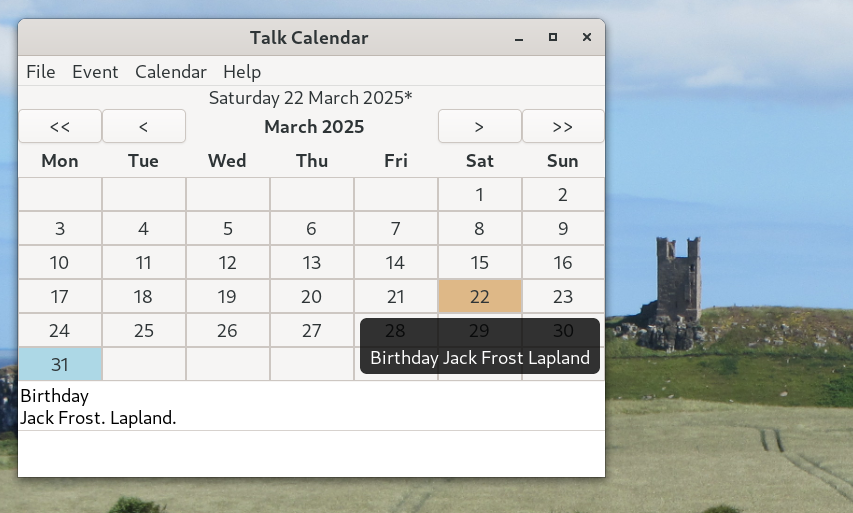
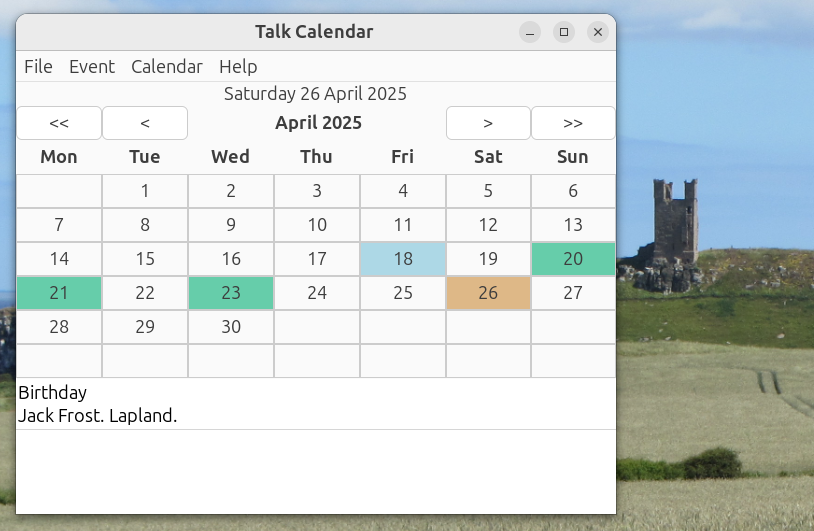
Talk Calendar GTK4 version 0.3.1
[build]: C and GTK 4.14 (Ubuntu 24.04)
[feat]: word concatenation speech synthesizer for reading out dates, time and event titles
[fix]: removed eSpeak speech dispatcher
[fix]: removed Flite API code as not supported on other distros
[feat]: binary for 64-bit Ubuntu and Debian distributions
[docs]: updated readme documentation

diff --git a/README.md b/README.md
@@ -16,13 +16,12 @@ Talk Calendar developed using C and [GTK4](https://docs.gtk.org/gtk4/) for GTK d
 * Sqlite3 database used to store events
 * reads out dates, times and event title text
 * talking clock
-* binary for GTK 4.8.4 (Debian Bookworm)
 
 ### Local Install Using Pre-built Binary
 
-A 64-bit pre-built binary of Talk Calendar is available and can be downloaded from the binary directory. This has been built using GTK 4.8 and compiled using Debian Bookworm.
+A 64-bit pre-built binary of Talk Calendar is available and can be downloaded from the binary directory. This has been built using GTK 4.14 and compiled using Ubuntu 24.04.
 
-Extract the downloaded file which contains the Talk Calendar executable. Talk Calendar must have executable permissions to execute.  Change Talk Calendar file permissions so that it can run as an executable as shown below.
+Extract the downloaded file which contains the Talk Calendar executable. Talk Calendar must have executable permissions to execute.  If necessary change Talk Calendar file permissions so that it can run as an executable as shown below.
 
 ```
 sudo chmod +x talkcalendar
@@ -150,13 +149,15 @@ The only recurring event type that is currently supported by Talk Calendar is ye
 
 Talk Calendar has a built-in word concatenation speech synthesizer. It is used to play-back pre-recorded English words for reading out dates, times and some common generic words used to summarise a personal calendar event. Press F2 to show the current list of words which can be used for an event title. You can use two or more words for the event summary such as "Birthday party", "Dads birthday", "Television reminder", "Travel and visit" or just "Calendar event". You can be creative with the current list of dictionary words. If an event summary word is not recognised then it is skipped over. More words for personal calendar events and notable dates will be added in future updates. Currently a "chipmunk" voice generated using an [Audacity](https://www.audacityteam.org/) macro is used.
 
-The advantage of using my own built-in speech synthesizer is that Talk Calendar can be compiled without any external speech synthesizer  dependencies.
+The advantage of using my own built-in speech synthesizer is that Talk Calendar can be compiled without any external speech synthesizer dependencies. 
 
-With previous versions of Talk Calendar I experimented with using [Flite](http://www.festvox.org/flite/). This is a small run-time speech synthesis engine available in many (not all) Linux distributions which uses diphone concatenation for speech output. Speech tended to lack [clarity](https://en.wikipedia.org/wiki/Speech_synthesis) compared to my word concatenation approach which stores and plays back entire words and so can provide clearer articulation in some use cases. The disadvantage of my approach is the limited number of words available for the event title description
+With previous versions of Talk Calendar I experimented with using [Flite](http://www.festvox.org/flite/). This is a small run-time speech synthesis engine which uses diphone concatenation for speech output. Speech tended to lack [clarity](https://en.wikipedia.org/wiki/Speech_synthesis) compared to [eSpeak](https://espeak.sourceforge.net/) which uses the formant speech synthesis method and produces good quality speech with clear articulation (although the standard voices are robotic). Also [packages.org](https://pkgs.org/) shows that Flite is not available in a number of Linux distributions. I discovered this when trying to compile Talk Calendar on some other Linux distributions and so reverted to using my own built-in speech synthesizer. 
 
-The [eSpeak](https://espeak.sourceforge.net/) speech dispatcher approach which sent text-to-speech output to the espeak speech synthesizer is not longer used. This approach required that eSpeak is installed separately on the user system. eSpeak uses the formant speech synthesis method and produces good quality speech with clear articulation but the standard voices are robotic. I am confused about the eSpeak license situation. eSpeak is said to have a GPL v3 [license](https://espeak.sourceforge.net/license.html). However, it appears that some of its components have other licenses. For example, the IEEE80.c file [license](https://github.com/espeak-ng/espeak-ng/blob/c1d9341f86eee4b7a0da50712b627d8a76e92fea/src/libespeak-ng/ieee80.c) says "Copyright (C) 1989-1991 Apple Computer, Inc." which is very strange given that espeak has a GPL v3 license. This is discussed further in the forum post [here](https://opensource.stackexchange.com/questions/11545/possibilities-to-use-a-gpl-v3-licensed-library-in-a-closed-source-game). 
+The [eSpeak](https://espeak.sourceforge.net/) speech dispatcher approach which sent text-to-speech output to the espeak speech synthesizer is not longer used. This approach required that eSpeak is installed separately on the user system. I am confused about the eSpeak license situation. eSpeak is said to have a GPL v3 [license](https://espeak.sourceforge.net/license.html). However, it appears that some of its components have other licenses. For example, the IEEE80.c file [license](https://github.com/espeak-ng/espeak-ng/blob/c1d9341f86eee4b7a0da50712b627d8a76e92fea/src/libespeak-ng/ieee80.c) says "Copyright (C) 1989-1991 Apple Computer, Inc." which is very strange given that espeak has a GPL v3 license. This is discussed further in the forum post [here](https://opensource.stackexchange.com/questions/11545/possibilities-to-use-a-gpl-v3-licensed-library-in-a-closed-source-game). 
 
-As a side note I have investigating the feasibility of developing my own diphone speech synthesiser the details of which can be found [here](https://github.com/crispinprojects/diphone-talker) but currently speech articulation is poor compared to the wrod concatenation approach. I have also been working on a formant speech synthesizer the technique used by eSpeak. More details of this formant speech synthesizer approach can be found [here](https://github.com/crispinprojects/formant-synthesizer). 
+As a side note I have investigating the feasibility of developing my own diphone speech synthesizer the details of which can be found [here](https://github.com/crispinprojects/diphone-talker). Currently speech articulation is poor compared to the word concatenation approach that I am currently using with Talk Calendar. The disadvantage of the word concatenation approach is the limited number of words which can be used for an event title but I have been regularly adding new words to the dictionary. 
+
+I have also been working on a formant speech synthesizer the technique used by eSpeak. More details of this formant speech synthesizer approach can be found [here](https://github.com/crispinprojects/formant-synthesizer). 
 
 ### Audio Thread
 
@@ -218,7 +219,7 @@ To run Talk Calendar from the terminal use
 ./talkcalendar
 ```
 
-
+I have tried to keep the current code base compatible with Debian 12 which uses GTK 4.8. This is an older version of the GTK4 toolkit compared to that used with Ubuntun 24.04 which is GTK 4.14. Because of this you will get some depreciation warnings when compiling using Ubuntu 24.04. See Debian compile notes below.
 
 ### Building on Fedora
 
